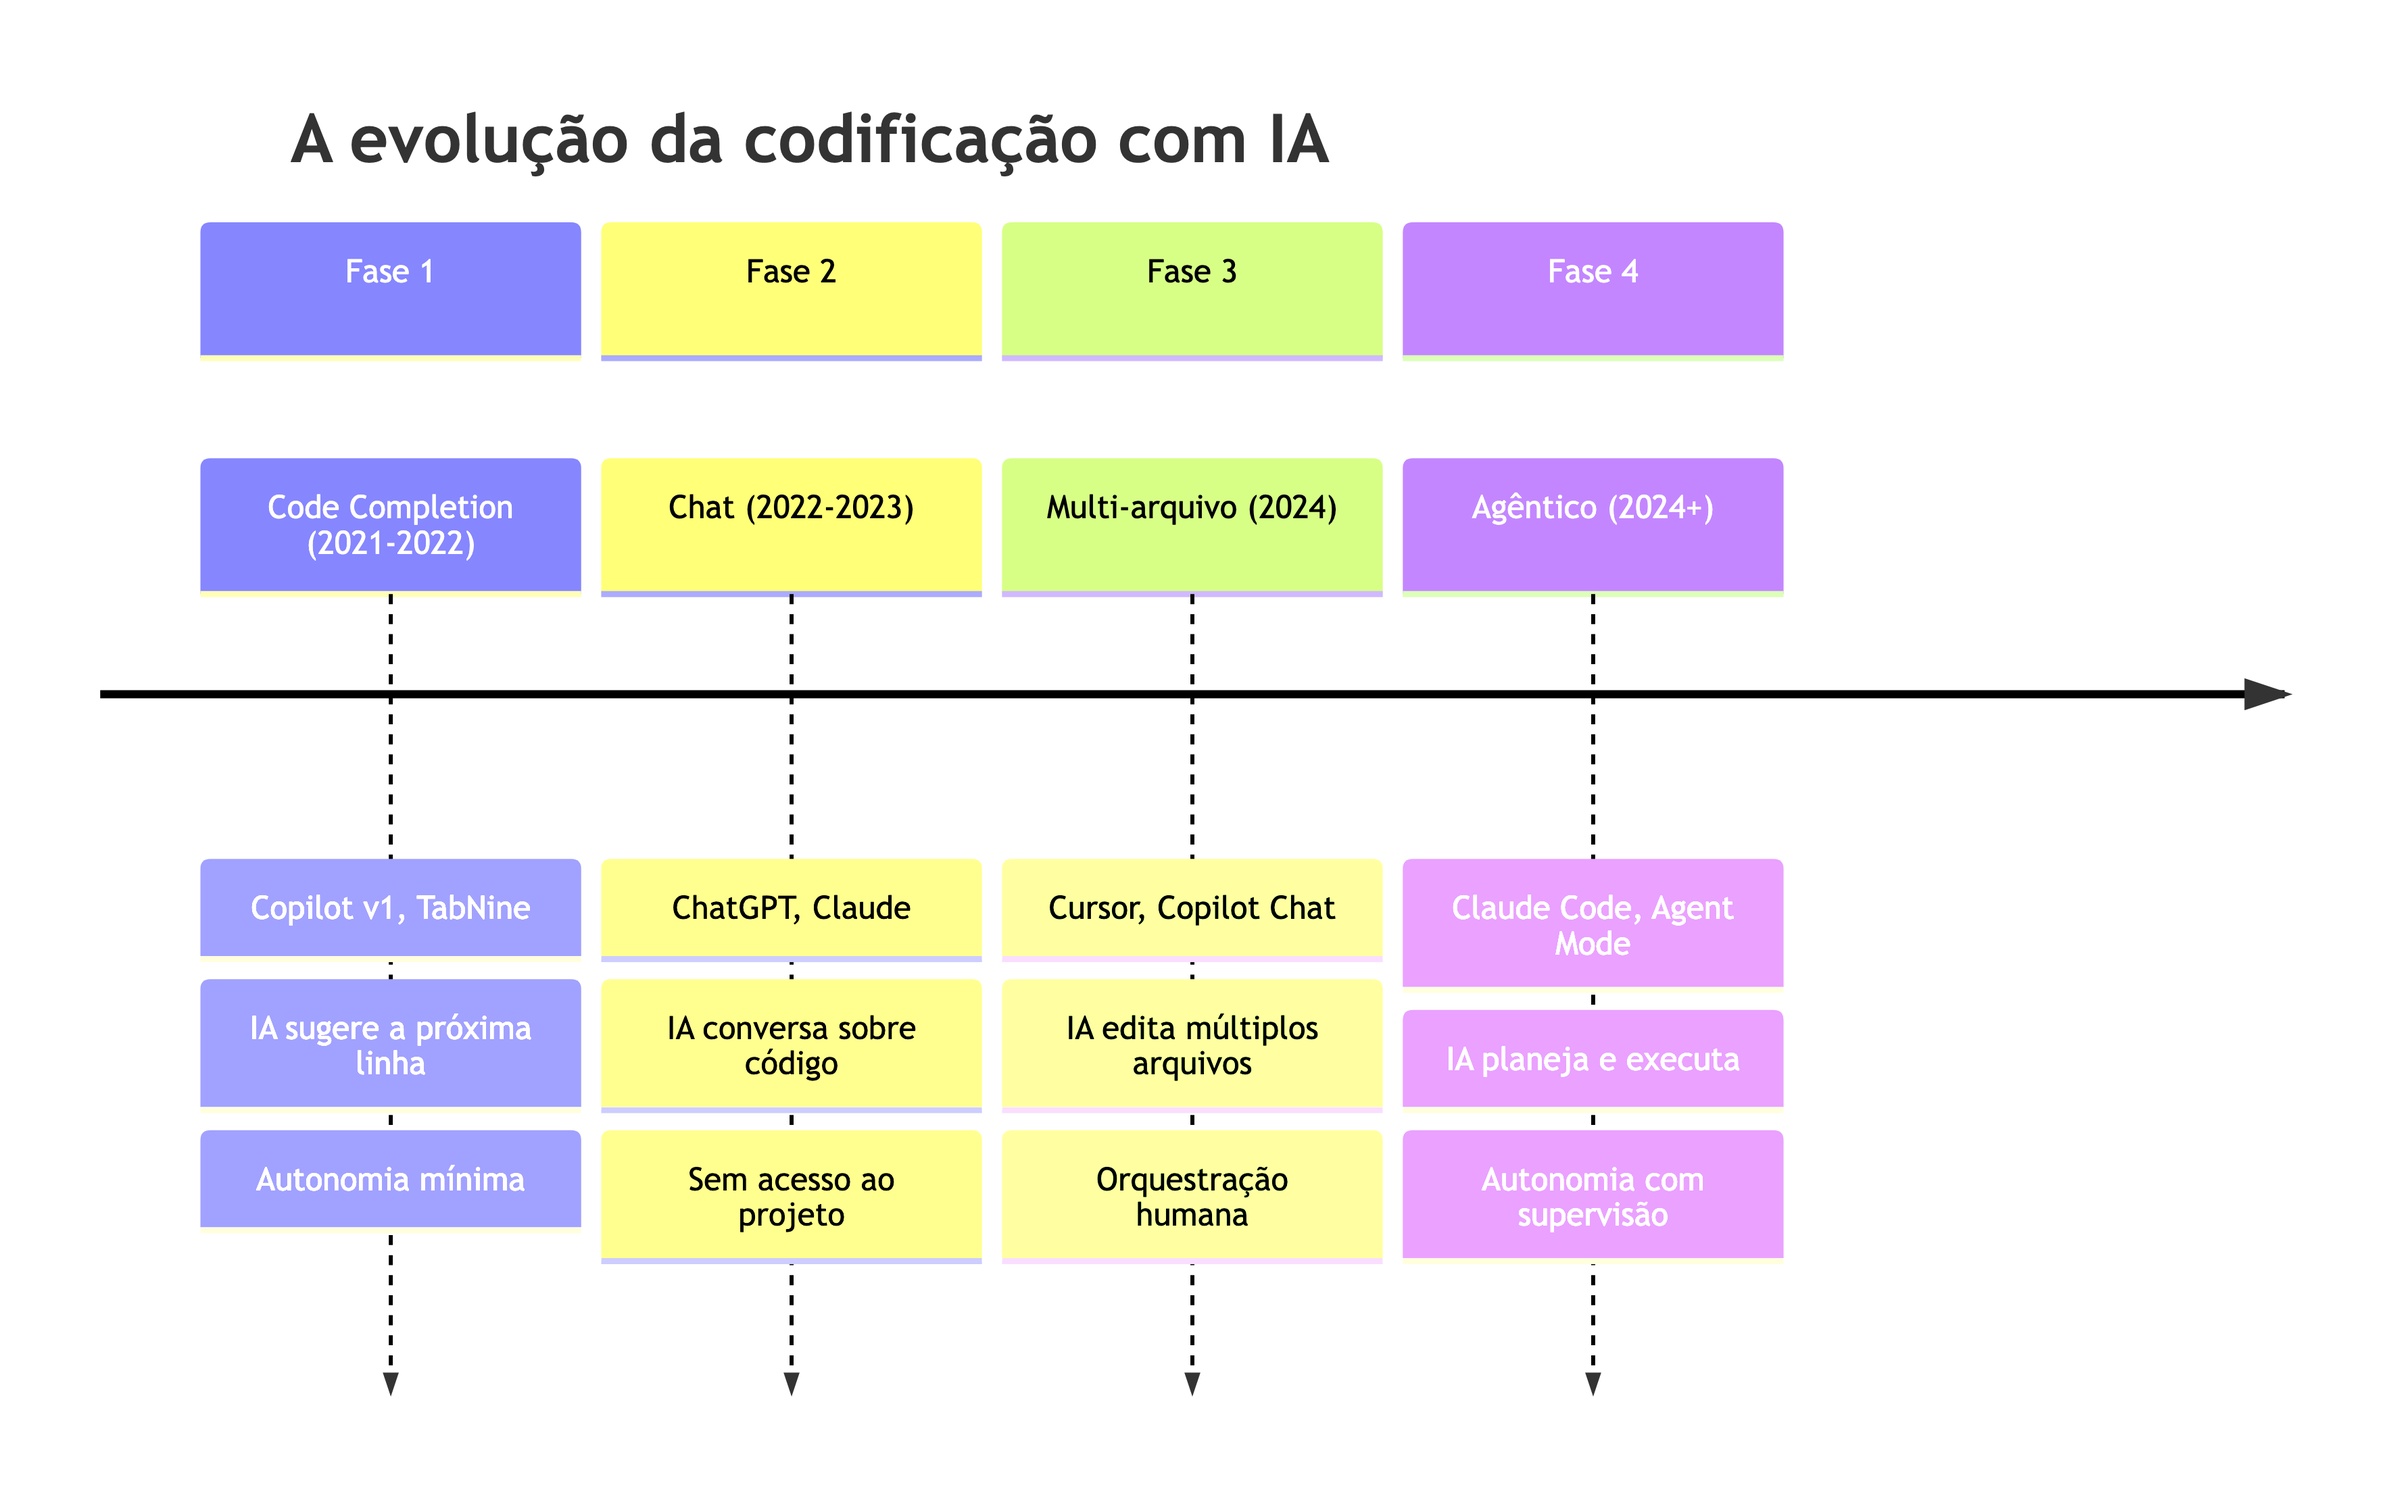
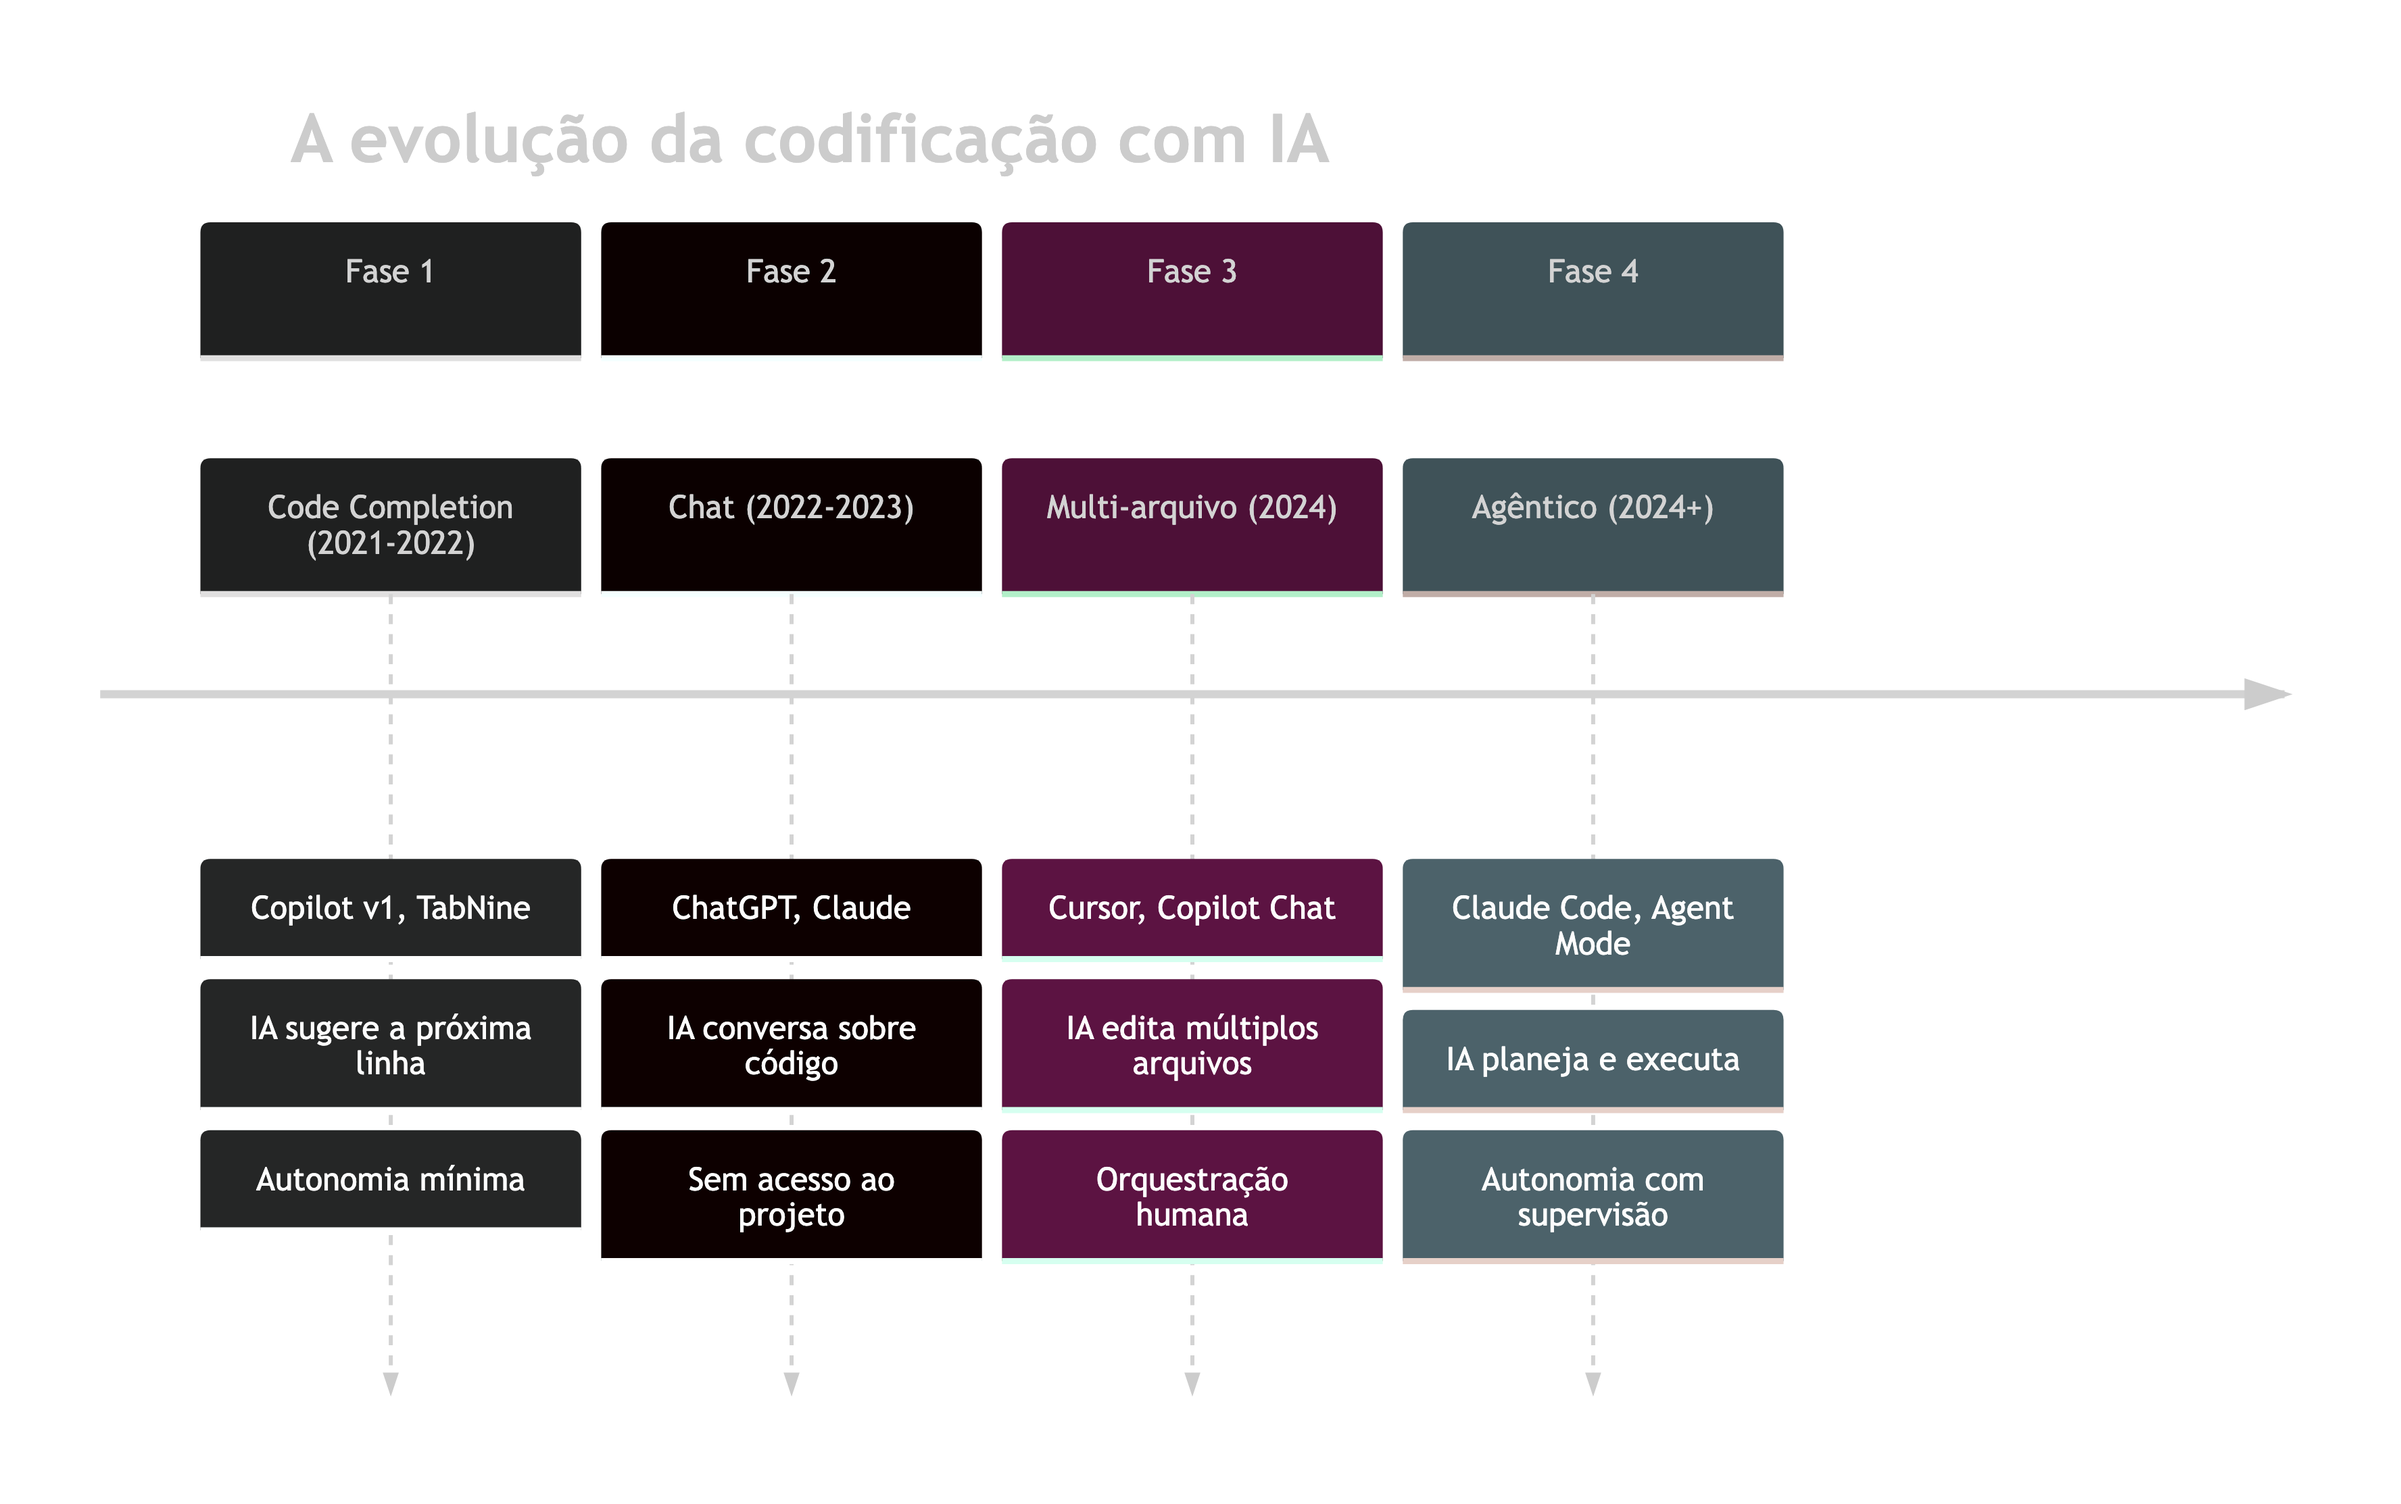
fix: switch diagrams to dark theme with transparent background

diff --git a/.claude/skills/generate-diagrams/SKILL.md b/.claude/skills/generate-diagrams/SKILL.md
@@ -59,11 +59,11 @@ npx -y @mermaid-js/mermaid-cli \
 
 ## Configuration
 
-- **Theme:** default (light)
+- **Theme:** dark
 - **Scale:** 3 (retina quality)
 - **Width:** 1200px
 - **Tool:** `npx -y @mermaid-js/mermaid-cli` (no install needed)
-- **Config file:** `{"theme": "default"}`
+- **Config file:** `{"theme": "dark"}`
 
 ## Naming convention
 
